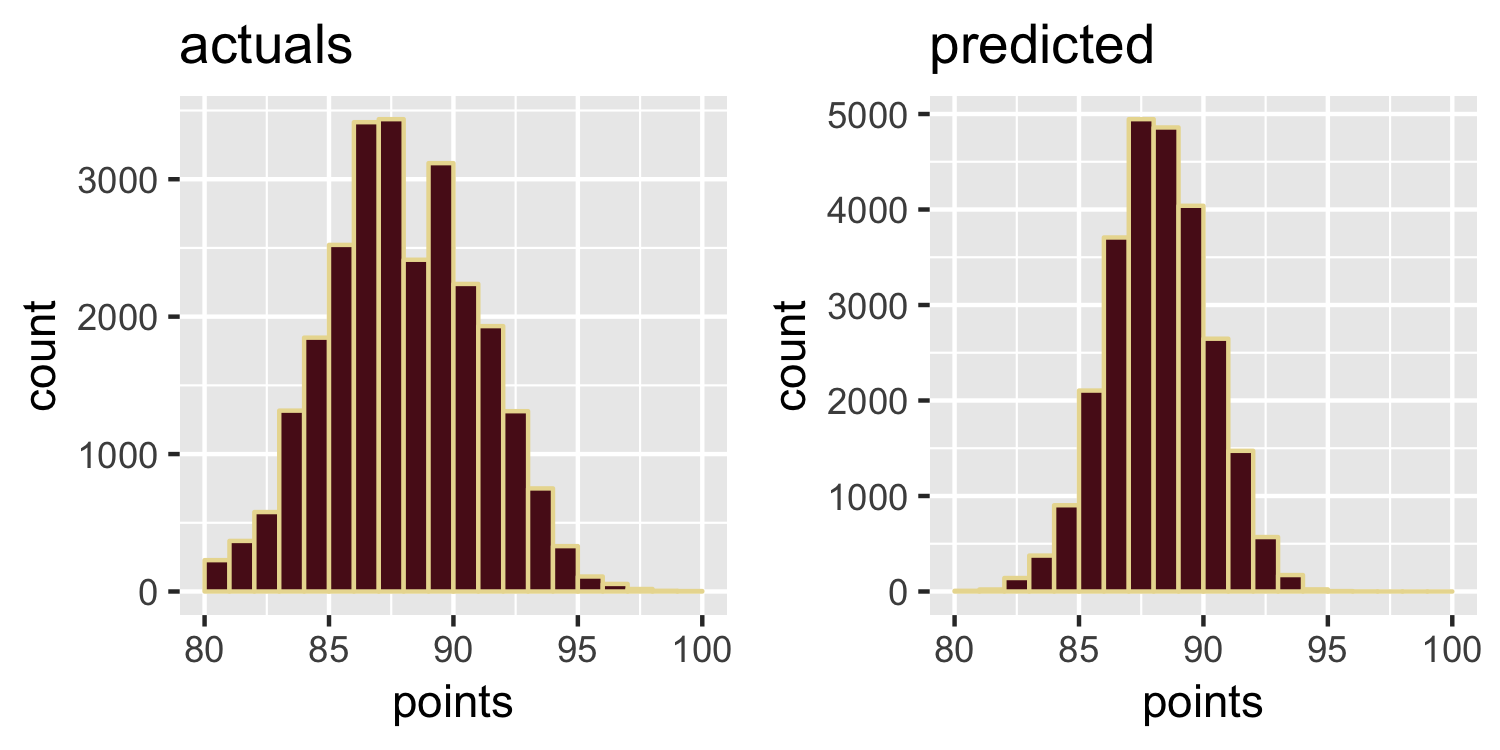
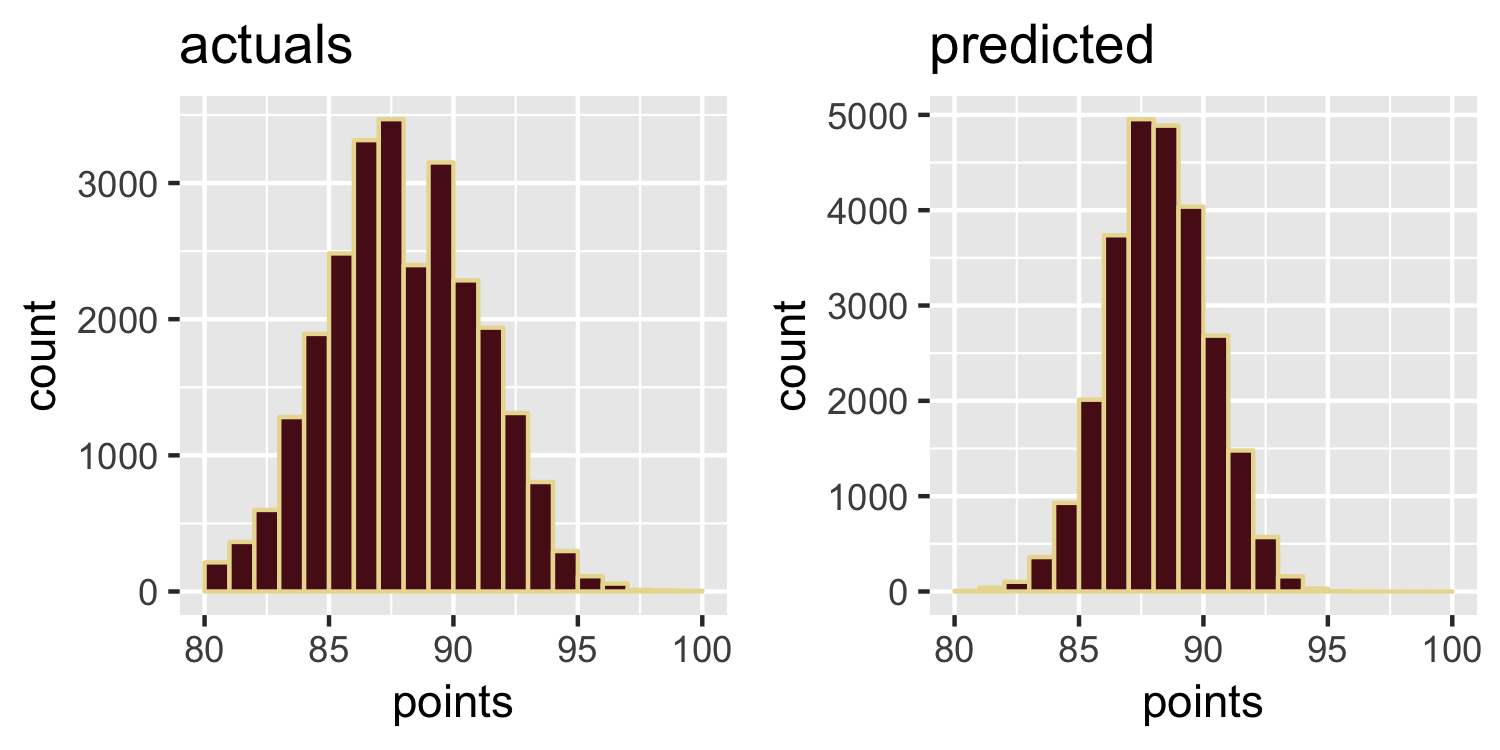
Removed colour as a predictor, cleaned up permutation examples

diff --git a/2019-04-10_melburn-wine.html b/2019-04-10_melburn-wine.html
@@ -401,25 +401,10 @@ wine_2grams %&gt;%
 ---
 ## Train and test
 
-I want to include `colour` as a predictor, so I'm going to stick it onto the end of the `description`.
+We're about to do some modelling. Let's prepare our train and test sets:
 
 ```r
-wine &lt;- wine %&gt;% 
-  mutate(
-    description = case_when(
-      colour == "red" ~ description, # defined by absence
-      TRUE ~ paste0(description, " colour_", colour)
-    )
-  )
-paste0("&gt; ", wine$description[12412]) %&gt;% cat
-```
-
-&gt; Made in a soft, fruity style, this darkly colored wine brims with complex flavors of blackberries, red licorice, grilled prosciutto, coffee, black pepper and sandalwood. Drink with steaks, chops and stews.
-
-Let's prepare our train and test sets:
-
-```r
-wine_split &lt;- rsample::initial_split(wine, strata = "colour", p = 0.80)
+wine_split &lt;- rsample::initial_split(wine, p = 0.80)
 wine_train &lt;- rsample::training(wine_split)
 wine_test &lt;- rsample::testing(wine_split)
 ```
@@ -516,22 +501,22 @@ vocabulary
 ```
 
 ```
-## Number of docs: 103978 
+## Number of docs: 103977 
 ## 1153 stopwords: a, a's, able, about, above, according ... 
 ## ngram_min = 1; ngram_max = 1 
 ## Vocabulary: 
-##             term term_count doc_count
-##   1:  underbrush       1040      1040
-##   2:   highlight       1046      1043
-##   3:       anoth       1052      1044
-##   4:      brambl       1053      1049
-##   5:      friend       1062      1051
-##  ---                                 
-## 368:       palat      31027     30379
-## 369:        acid      31702     30714
-## 370:      finish      32433     32118
-## 371:       aroma      32913     32473
-## 372: colour_whit      37342     37342
+##          term term_count doc_count
+##   1:    boast       1045      1042
+##   2:   brambl       1051      1048
+##   3:  graphit       1055      1050
+##   4: pomegran       1063      1042
+##   5:   featur       1064      1063
+##  ---                              
+## 362:    drink      27353     26774
+## 363:    palat      30899     30222
+## 364:     acid      31878     30886
+## 365:   finish      32266     31960
+## 366:    aroma      32777     32332
 ```
 ]
 
@@ -539,7 +524,7 @@ vocabulary
 class: inverse
 ## Vectoriser
 
-Our `vectoriser` will take an arbitrary string and map it to these 372 stemmed terms. 
+Our `vectoriser` will take an arbitrary string and map it to these 366 stemmed terms. 
 
 Any new terms will be **ignored**.
 
@@ -551,7 +536,7 @@ vectoriser &lt;- vocabulary %&gt;% text2vec::vocab_vectorizer()
 ---
 ## Document term matrices
 
-* Every column is one of our 372 terms
+* Every column is one of our 366 terms
 * Every row is a wine review
 * Values are weighted by *term frequency–inverse document frequency (tf-idf)*
 
@@ -564,7 +549,7 @@ dim(wine_train_dtm)
 ```
 
 ```
-## [1] 103978    372
+## [1] 103977    366
 ```
 
 ---
@@ -575,7 +560,7 @@ dim(wine_train_dtm)
 paste0('&gt; ', wine[1,]$description) %&gt;% cat
 ```
 
-&gt; Aromas include tropical fruit, broom, brimstone and dried herb. The palate isn't overly expressive, offering unripened apple, citrus and dried sage alongside brisk acidity. colour_white
+&gt; Aromas include tropical fruit, broom, brimstone and dried herb. The palate isn't overly expressive, offering unripened apple, citrus and dried sage alongside brisk acidity.
 
 
 ```r
@@ -583,14 +568,14 @@ tail(as.matrix(wine_train_dtm)[1,], 21)
 ```
 
 ```
-##       light        plum        nose         oak       berri         red 
-##  0.00000000  0.00000000  0.00000000  0.00000000  0.15351828  0.14607893 
-##       fresh        rich       spice        note         dri       black 
-##  0.00000000  0.00000000  0.00000000  0.00000000  0.00000000  0.00000000 
-##        ripe      tannin      cherri       drink       palat        acid 
-##  0.12002651  0.10782941  0.00000000  0.00000000  0.00000000  0.09380217 
-##      finish       aroma colour_whit 
-##  0.00000000  0.00000000  0.00000000
+##      offer       plum      light       nose        oak      berri 
+## 0.14049216 0.00000000 0.00000000 0.00000000 0.00000000 0.00000000 
+##        red      fresh       rich      spice       note        dri 
+## 0.00000000 0.00000000 0.00000000 0.00000000 0.00000000 0.22228822 
+##      black       ripe     tannin     cherri      drink      palat 
+## 0.00000000 0.00000000 0.00000000 0.00000000 0.00000000 0.08237110 
+##       acid     finish      aroma 
+## 0.08092229 0.00000000 0.07787209
 ```
 
 ---
@@ -640,7 +625,7 @@ caret::postResample(wine_test_preds, wine_test$points)
 
 ```
 ##      RMSE  Rsquared       MAE 
-## 2.0949501 0.5414494 1.6484374
+## 2.1059337 0.5379716 1.6511223
 ```
 
 ---
@@ -727,19 +712,38 @@ lime::plot_image_explanation(example_image_explanation)
 
 ### Wine 78883, 80 points
 
-&gt; "Tastes sour and bone dry, with grapefruit flavors. colour_white"
-
-Prediction: 82.48 points
-
---
-&gt; "Tastes and bone dry with grapefruit flavors. colour_white"
-
-Prediction: 84.3 points
-
---
 &gt; "Tastes sour and bone dry, with grapefruit flavors."
 
-Prediction: 84.33 points
+Prediction: 83.81 points
+
+--
+&gt; "Tastes sour and bone dry, with ~~grapefruit~~ flavors."
+
+Prediction: 83.81 points
+
+--
+&gt; "Tastes ~~sour~~ and bone dry with grapefruit flavors."
+
+Prediction: 86.11 points
+
+--
+&gt; "Tastes ~~sour~~ and bone ~~dry~~, with grapefruit flavors."
+
+Prediction: 87.3 points
+
+---
+## Permutations
+
+### Wine 84890, 86 points
+
+&gt; "This is certainly dry, as stated, but it doesn't have the texture and stuffing that the best dry Rieslings bring to the show. Simple and straightforward lemon and grapefruit flavors tell the whole story, and those high acids leave a sour impression."
+
+Prediction: 85.57 points
+
+--
+&gt; "This is certainly dry, as stated, but it doesn't have the texture and stuffing that the best dry Rieslings bring to the show. Simple and straightforward lemon and ~~grapefruit~~ flavors tell the whole story, and those high acids leave a sour impression."
+
+Prediction: 84.36 points
 
 ---
 ## LIME
@@ -789,7 +793,7 @@ custom_lime_explanation_plot(
 
 .pull-left[
 
-&gt; Picked at 33 brix and fermented in new French oak, this heavy, almost oily dessert wine has a floral aroma as intense as bottled perfume. Flavors suggest orange liqueur, honey and candied apricots. It pulls together just enough acidity to avoid falling into a fat, cloying finish. colour_white
+&gt; Picked at 33 brix and fermented in new French oak, this heavy, almost oily dessert wine has a floral aroma as intense as bottled perfume. Flavors suggest orange liqueur, honey and candied apricots. It pulls together just enough acidity to avoid falling into a fat, cloying finish.
 
 
 
@@ -902,8 +906,8 @@ cm$table
 ```
 ##           Reference
 ## Prediction     0     1
-##          0 11781  1930
-##          1  4158  8124
+##          0 11764  1853
+##          1  4182  8195
 ```
 
 
@@ -912,7 +916,7 @@ scales::percent(cm$overall[["Accuracy"]])
 ```
 
 ```
-## [1] "76.6%"
+## [1] "76.8%"
 ```
 ]
 
